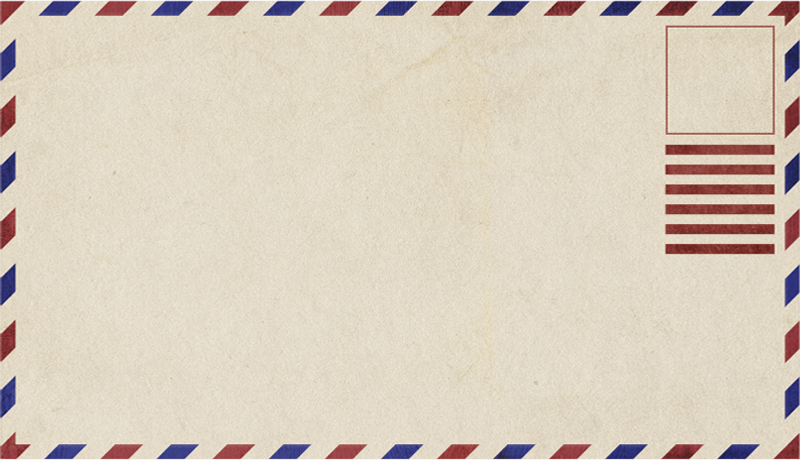
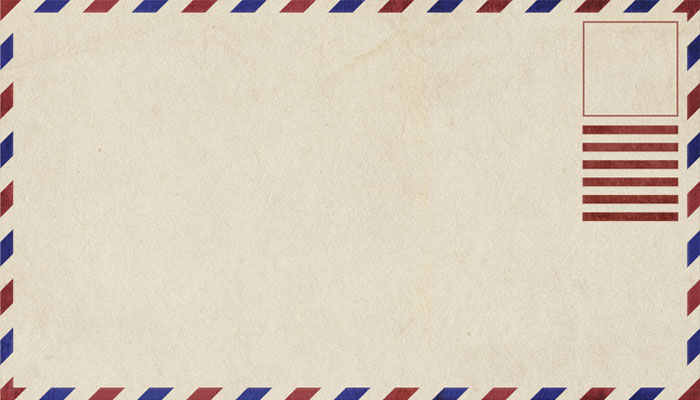
Reduced image quality to save a ton of bandwidth

diff --git a/rsvp.css b/rsvp.css
@@ -210,10 +210,11 @@ body {
 #envelope {
 	background: url(images/bg_envelope.jpg) left -1px no-repeat;
 	box-shadow: 0 3px 10px 0 rgba(0, 0, 0, 0.75);
-	height: 458px;
-	left: 80px;
+	height: 400px;
+	left: 120px;
 	position: relative;
-	width: 800px;
+	top: 20px;
+	width: 700px;
 
 	-moz-transform: rotate(-3deg);
 	-ms-transform: rotate(-3deg);
@@ -275,8 +276,8 @@ body {
 		font-family: "Marvel";
 		position: absolute;
 		text-transform: uppercase;
-		right: 32px;
-		top: 35px;
+		right: 22px;
+		top: 25px;
 		width: 95px;
 		text-align: center;
 		font-size: 1.15em;
@@ -287,8 +288,8 @@ body {
 		font-size: 2em;
 		font-family: Yellowtail;
 		position: absolute;
-		top: 150px;
-		left: 220px;
+		top: 130px;
+		left: 200px;
 	}
 	#to:after {
 		content: ":";
@@ -298,8 +299,8 @@ body {
 		font-size: 3em;
 		font-family: Yellowtail;
 		position: absolute;
-		top: 200px;
-		left: 300px;
+		top: 170px;
+		left: 270px;
 	}
 
 #rsvp {
@@ -310,7 +311,7 @@ body {
 	height: 400px;
 	left: 130px;
 	position: absolute;
-	top: 30px;
+	top: 0;
 	width: 700px;
 }
 	#rsvp > form {

diff --git a/rsvp.js b/rsvp.js
@@ -109,8 +109,8 @@ $(function () {
 			return Math.round(amount * precision) / precision;
 		},
 		jiggle = function () {
-			var min = -4, // lower range
-				max = 4, // upper range
+			var min = -6, // lower range
+				max = 6, // upper range
 				atmost = 3, // max change per interval
 				atleast = 1, // min change per interval
 				random = _random(min, max),
